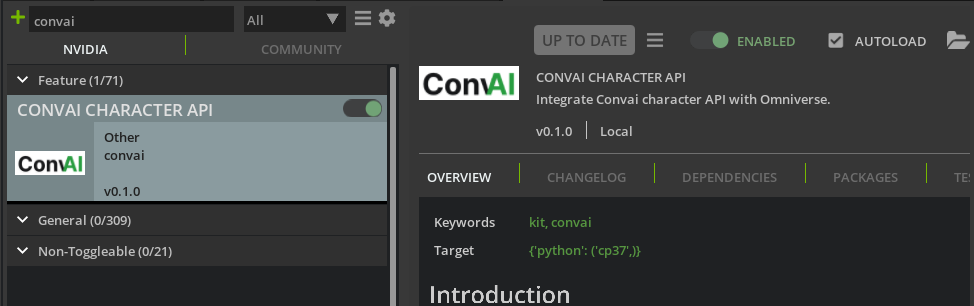
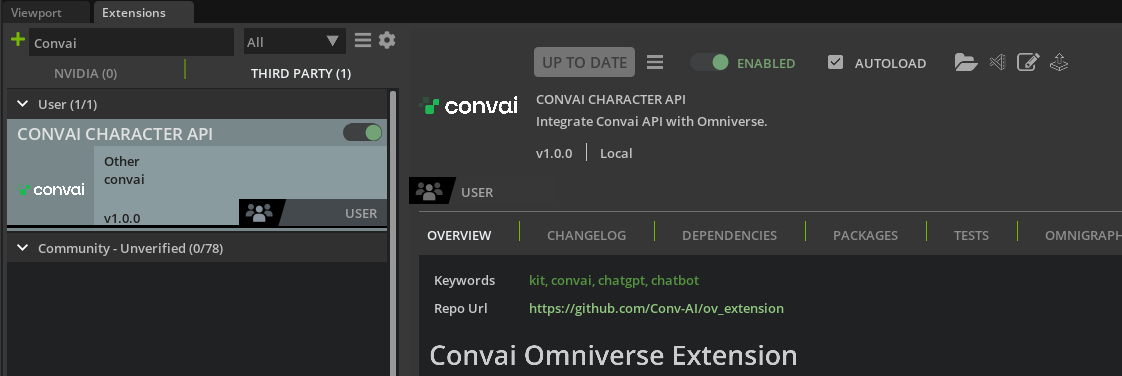
Update README images

diff --git a/README.md b/README.md
@@ -15,7 +15,7 @@ To install the Convai Omniverse Extension, follow these steps:
     <p align="left">
     <img height="350" src="images/SearchPath.png?raw=true">
     </p>
-6. Search for `Convai` in the top left search bar, make sure to check `Enabled`.
+6. Select the `Third Party` tab and search for `Convai` in the top left search bar, make sure to check `Enabled`.
     <p align="left">
     <img height="250" src="images/ConvaiSearch.png?raw=true">
     </p>
